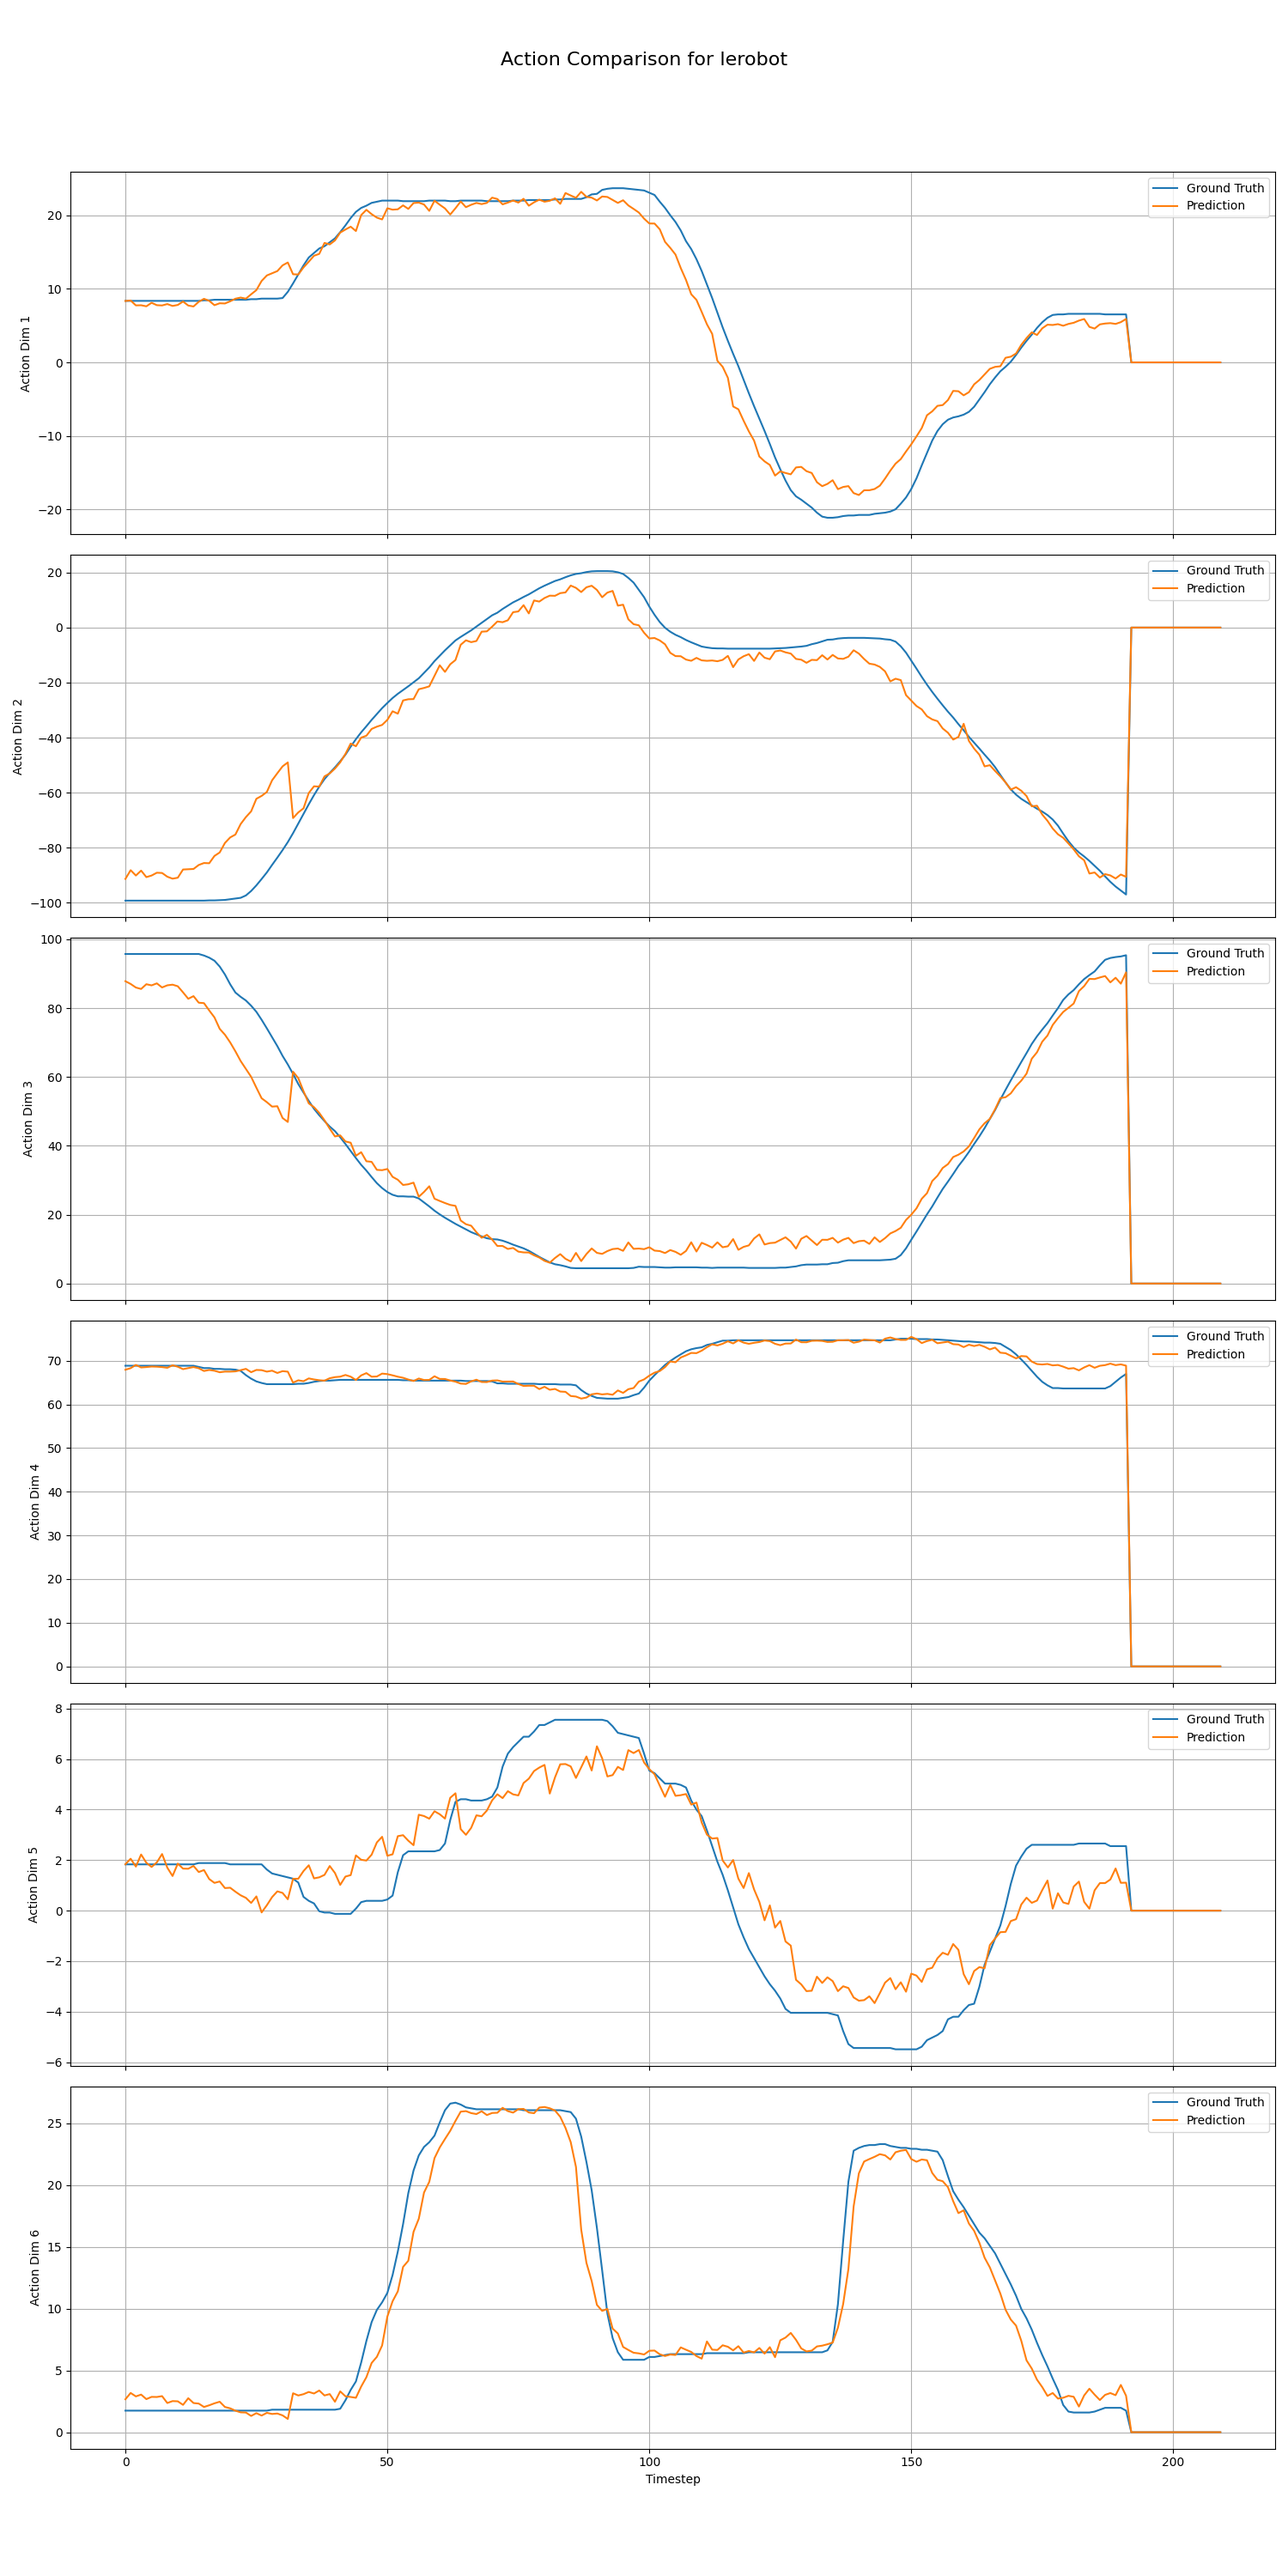
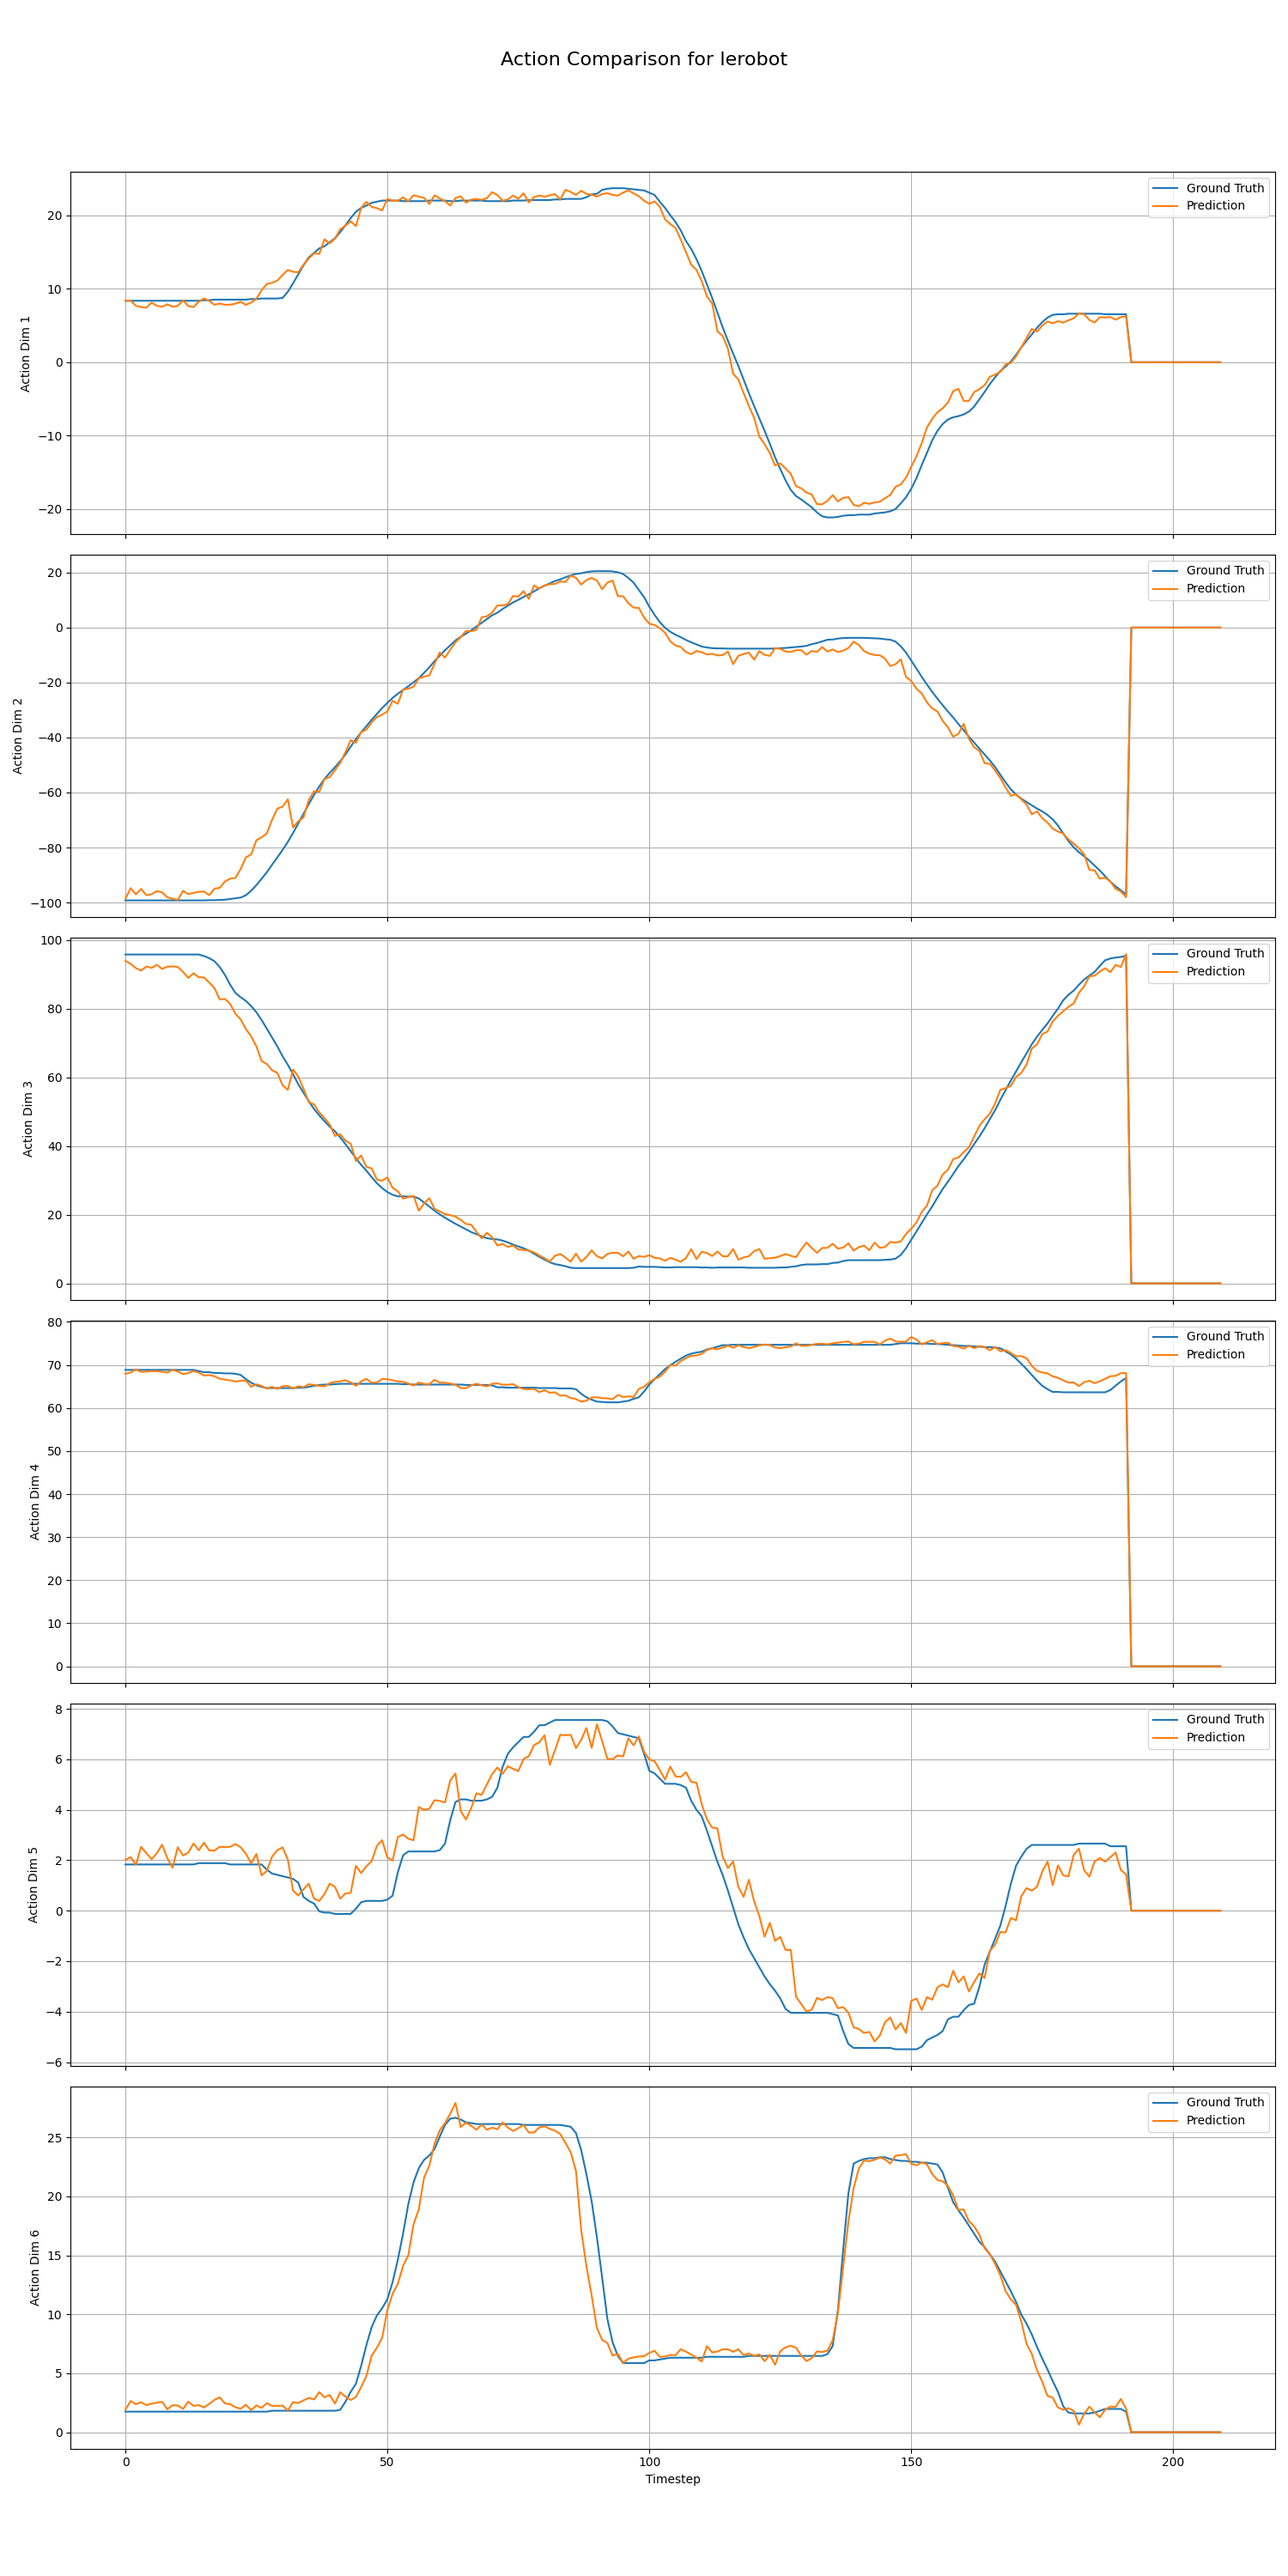
feat(rk3588): restructure FPGA VLA client token layout to multi-segment format
Split single-segment text/proprio tokens into separate img0/text1/img1/text2/proprio/text3
segments matching new FPGA protocol. Add dump flag to conditionally disable binary dumps
and assertions for token length validation.

diff --git a/packages/fpga_vla_client.py b/packages/fpga_vla_client.py
@@ -37,8 +37,12 @@ ACTION_TOKENS = 32
 
 # 默认 tensor 长度（匹配 8_test_demo.cpp 测试数据）
 DEFAULT_TEXT0_TOKENS = 22
-DEFAULT_PROPRIO_TOKENS = 7
-DEFAULT_TEXT1_TOKENS = 31
+DEFAULT_IMG0_TOKENS = 63
+DEFAULT_TEXT1_TOKENS = 7
+DEFAULT_IMG1_TOKENS = 63
+DEFAULT_TEXT2_TOKENS = 24
+DEFAULT_PROPRIO_TOKENS = 1
+DEFAULT_TEXT3_TOKENS = 6
 
 # 模型配置
 MODEL_PATH = "/home/xieqijia/Project/WALL-OSS/wall-x/workspace/libero/workspace/finetuned_new"
@@ -69,19 +73,25 @@ class FPGATransformerClient:
         host: str = "127.0.0.1",
         port: int = 8001,
         text0_tokens: int = DEFAULT_TEXT0_TOKENS,
-        proprio_tokens: int = DEFAULT_PROPRIO_TOKENS,
         text1_tokens: int = DEFAULT_TEXT1_TOKENS,
+        text2_tokens: int = DEFAULT_TEXT2_TOKENS,
+        proprio_tokens: int = DEFAULT_PROPRIO_TOKENS,
+        text3_tokens: int = DEFAULT_TEXT3_TOKENS,
         dump_dir: str = "/tmp/fpga_dump",
+        dump: bool = False
     ):
         self.host = host
         self.port = port
         self.sock: Optional[socket.socket] = None
         self.text0_tokens = text0_tokens
-        self.proprio_tokens = proprio_tokens
         self.text1_tokens = text1_tokens
+        self.text2_tokens = text2_tokens
+        self.proprio_tokens = proprio_tokens
+        self.text3_tokens = text3_tokens
         self.dump_dir = dump_dir
         os.makedirs(dump_dir, exist_ok=True)
         self._dump_idx = 0
+        self.dump = dump
 
     def connect(self):
         self.sock = socket.socket(socket.AF_INET, socket.SOCK_STREAM)
@@ -102,8 +112,10 @@ class FPGATransformerClient:
         self,
         image: np.ndarray,
         text_0: np.ndarray,
-        proprio: np.ndarray,
         text_1: np.ndarray,
+        text_2: np.ndarray,
+        proprio: np.ndarray,
+        text_3: np.ndarray,
         action: np.ndarray,
     ) -> np.ndarray:
         attrs = np.array(
@@ -111,29 +123,32 @@ class FPGATransformerClient:
                 VIT_RUN_TOKEN,
                 1184,
                 self.text0_tokens,
-                self.proprio_tokens,
                 self.text1_tokens,
+                self.text2_tokens,
+                self.proprio_tokens,
+                self.text3_tokens,
                 ACTION_TOKENS,
                 LLM_HIDDEN_DIM,
             ],
             dtype=np.uint16,
         )
         self.sock.sendall(encode_command("vla1", attrs.tobytes()))
-        for tensor in [image, text_0, proprio, text_1, action]:
+        for tensor in [image, text_0, text_1, text_2, proprio, text_3, action]:
             self.sock.sendall(tensor.astype(np.uint16).tobytes())
         result = recv_all(self.sock, ACTION_TOKENS * LLM_HIDDEN_DIM * 2)
         result_arr = np.frombuffer(result, dtype=np.uint16).reshape(ACTION_TOKENS, LLM_HIDDEN_DIM)
 
         # dump
-        d = os.path.join(self.dump_dir, f"mode1_{self._dump_idx:04d}")
-        os.makedirs(d, exist_ok=True)
-        image.tofile(os.path.join(d, "image.bin"))
-        text_0.tofile(os.path.join(d, "text_0.bin"))
-        proprio.tofile(os.path.join(d, "proprio.bin"))
-        text_1.tofile(os.path.join(d, "text_1.bin"))
-        action.tofile(os.path.join(d, "action.bin"))
-        result_arr.tofile(os.path.join(d, "result.bin"))
-        self._dump_idx += 1
+        if self.dump:
+            d = os.path.join(self.dump_dir, f"mode1_{self._dump_idx:04d}")
+            os.makedirs(d, exist_ok=True)
+            image.tofile(os.path.join(d, "image.bin"))
+            text_0.tofile(os.path.join(d, "text_0.bin"))
+            proprio.tofile(os.path.join(d, "proprio.bin"))
+            text_1.tofile(os.path.join(d, "text_1.bin"))
+            action.tofile(os.path.join(d, "action.bin"))
+            result_arr.tofile(os.path.join(d, "result.bin"))
+            self._dump_idx += 1
         return result_arr
 
     def _send_mode2(self, action: np.ndarray) -> np.ndarray:
@@ -144,11 +159,12 @@ class FPGATransformerClient:
         result_arr = np.frombuffer(result, dtype=np.uint16).reshape(ACTION_TOKENS, LLM_HIDDEN_DIM)
 
         # dump
-        d = os.path.join(self.dump_dir, f"mode2_{self._dump_idx:04d}")
-        os.makedirs(d, exist_ok=True)
-        action.tofile(os.path.join(d, "action.bin"))
-        result_arr.tofile(os.path.join(d, "result.bin"))
-        self._dump_idx += 1
+        if self.dump:
+            d = os.path.join(self.dump_dir, f"mode2_{self._dump_idx:04d}")
+            os.makedirs(d, exist_ok=True)
+            action.tofile(os.path.join(d, "action.bin"))
+            result_arr.tofile(os.path.join(d, "result.bin"))
+            self._dump_idx += 1
         return result_arr
 
     def run_transformer_on_fpga(
@@ -187,9 +203,18 @@ class FPGATransformerClient:
         # 拆分 text / image / proprio / text1 / action
         text_0 = temp_inputs_embeds[0, :img_start, :]
         image_embeds = temp_inputs_embeds[0, img_start:img_end, :]
+        text_1 = temp_inputs_embeds[0, img_start+DEFAULT_IMG0_TOKENS:img_start+DEFAULT_IMG0_TOKENS+self.text1_tokens, :]
+        text_2 = temp_inputs_embeds[0, img_end:img_end+self.text2_tokens, :]
         proprio_embeds = temp_inputs_embeds[0, propri_start:propri_start + self.proprio_tokens, :]
-        text_1 = temp_inputs_embeds[0, img_end:action_start, :]
+        text_3 = temp_inputs_embeds[0, propri_start+self.proprio_tokens:action_start, :]
         action_embeds = temp_inputs_embeds[0, action_start:action_start + ACTION_TOKENS, :]
+
+        assert text_0.shape[0] == DEFAULT_TEXT0_TOKENS, "input test_0 not matched"
+        assert text_1.shape[0] == DEFAULT_TEXT1_TOKENS, "input test_1 not matched"
+        assert text_2.shape[0] == DEFAULT_TEXT2_TOKENS, "input test_2 not matched"
+        assert proprio_embeds.shape[0] == DEFAULT_PROPRIO_TOKENS, "input proprio not matched"
+        assert text_3.shape[0] == DEFAULT_TEXT3_TOKENS, "input test_3 not matched"
+        assert action_embeds.shape[0] == ACTION_TOKENS, "input action not matched"
 
         # 对齐到 FPGA 期望的固定长度
         def pad_or_truncate(t, target_len, name):
@@ -208,6 +233,8 @@ class FPGATransformerClient:
 
         text_0 = pad_or_truncate(text_0, self.text0_tokens, "text_0")
         text_1 = pad_or_truncate(text_1, self.text1_tokens, "text_1")
+        text_2 = pad_or_truncate(text_2, self.text2_tokens, "text_2")
+        text_3 = pad_or_truncate(text_3, self.text3_tokens, "text_3")
 
         # image: FPGA 需要 [648, 1184] 的原始 patch 数据
         # 但 temp_inputs_embeds 中的 image_embeds 已经是经过 ViT 后的 [162, 2048]
@@ -224,12 +251,14 @@ class FPGATransformerClient:
             return t.detach().cpu().to(torch.float16).numpy().view(np.uint16)
 
         text_0_np = to_uint16_np(text_0)
-        proprio_np = to_uint16_np(proprio_embeds)
         text_1_np = to_uint16_np(text_1)
+        text_2_np = to_uint16_np(text_2)
+        proprio_np = to_uint16_np(proprio_embeds)
+        text_3_np = to_uint16_np(text_3)
         action_np = to_uint16_np(action_embeds)
 
         if iteration_idx == 0:
-            result = self._send_mode1(image_uint16, text_0_np, proprio_np, text_1_np, action_np)
+            result = self._send_mode1(image_uint16, text_0_np, text_1_np, text_2_np, proprio_np, text_3_np, action_np)
         else:
             result = self._send_mode2(action_np)
 
